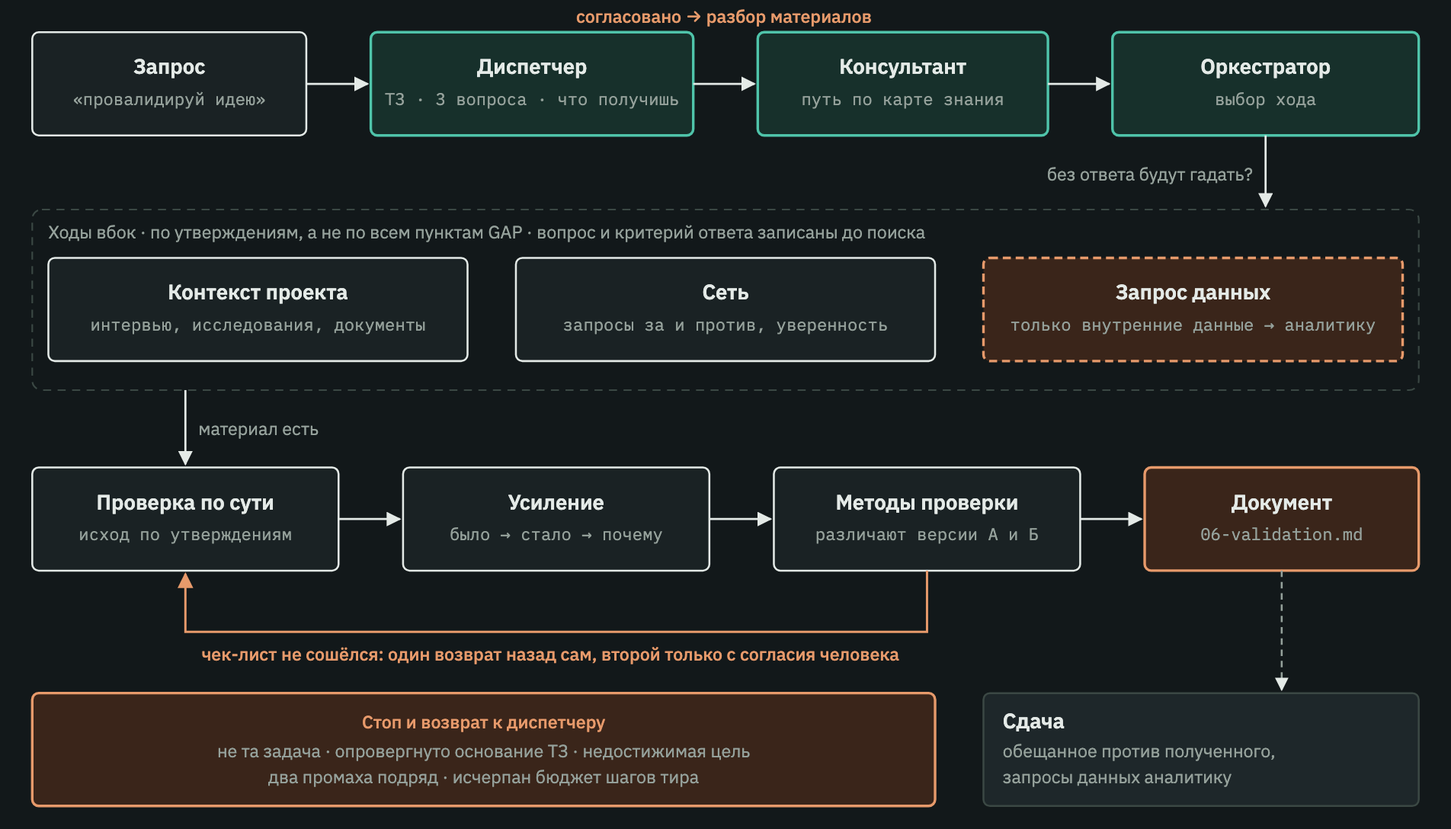
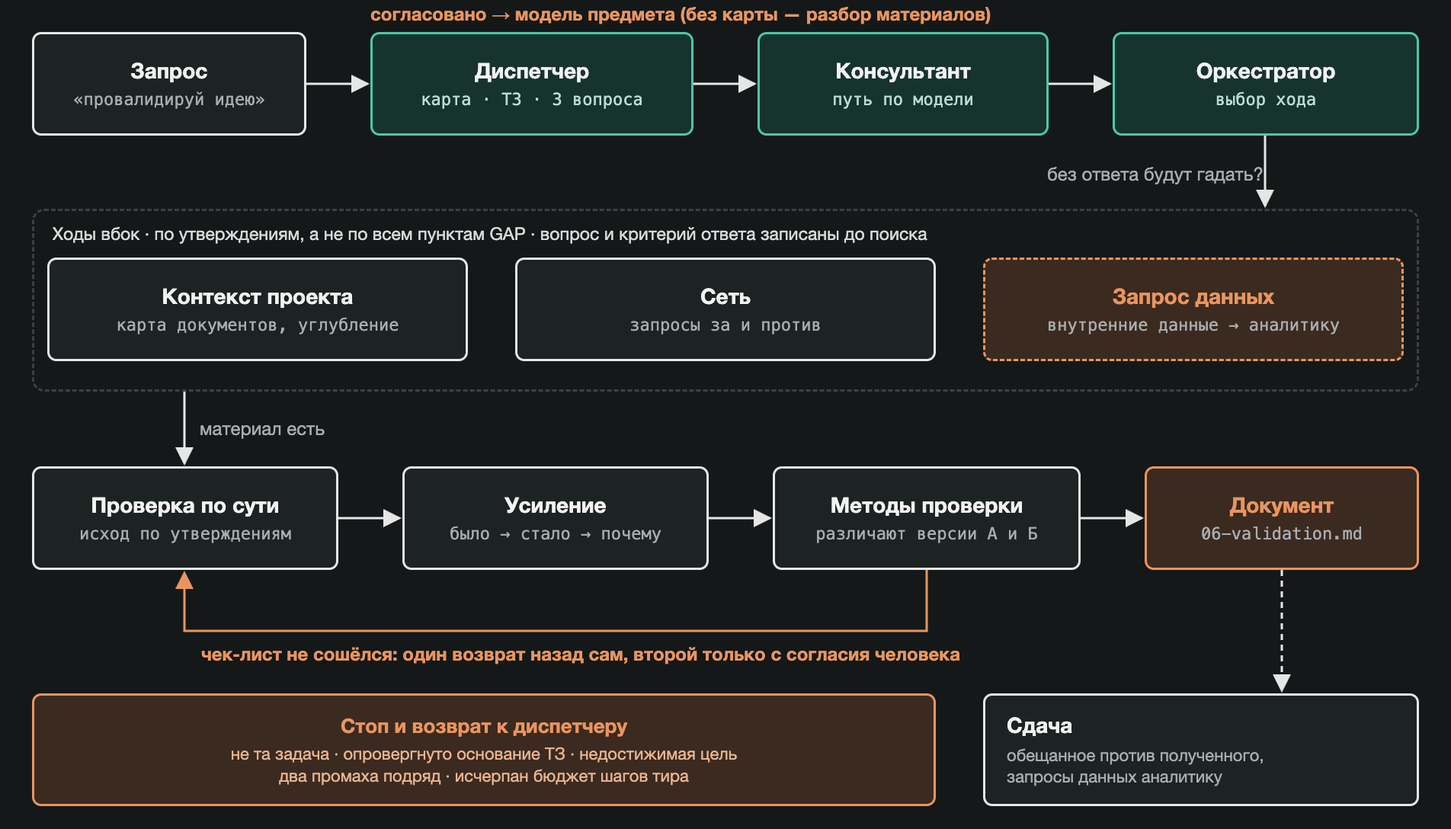
README, схемы и AGENTS.md: синхронизация с картографией и моделью
Схема 1: поля ТЗ (ГРУППЫ, РАМКИ, ЭКСПЕРИМЕНТ, ЧТО ПОЛУЧИШЬ) и файлы задачи
(map/, 00d-map, 00m-model, 00r-limits, 02e-trace). Схема 3 пересобрана с
HTML-исходником под путь через карту и модель. Схема 4: крупнее шрифт, короче
подписи. README: строки Диспетчера и Оркестратора, раздел картографии списком
из трёх шагов. docs/README.md: исходники всех четырёх схем и команды съёмки.
AGENTS.md: служебные файлы задачи и правило, что оценки считают скрипты.

diff --git a/docs/src/architecture-4-document-mapping.html b/docs/src/architecture-4-document-mapping.html
@@ -4,46 +4,54 @@
 :root{--bg:#141819;--box:#1d2223;--line:#e6e6e6;--teal:#4cc8a8;--tealbg:#17332d;--or:#e9955f;--orbg:#3b2a20;--muted:#a9adaf;}
 *{box-sizing:border-box;margin:0;padding:0}
 html,body{background:var(--bg);width:952px}
-body{font-family:Inter,"SF Pro Text",-apple-system,"Helvetica Neue",Arial,sans-serif;color:#f2f2f2;padding:10px 10px 16px 10px}
-.row{display:flex;align-items:center;height:50px;margin-bottom:3px}
-.lbl{width:118px;font-weight:700;font-size:12.5px;flex:none}
+body{font-family:Inter,"SF Pro Text",-apple-system,"Helvetica Neue",Arial,sans-serif;color:#f2f2f2;padding:14px 12px 18px 12px}
+.row{display:flex;align-items:center;height:62px;margin-bottom:6px}
+.lbl{width:122px;font-weight:700;font-size:14px;flex:none}
 .flow{display:flex;align-items:center}
-.b{height:34px;border:1.5px solid var(--line);border-radius:5px;background:var(--box);display:flex;align-items:center;justify-content:center;text-align:center;font-size:11.5px;line-height:1.15;padding:0 6px;width:112px;flex:none}
+.b{height:48px;border:1.5px solid var(--line);border-radius:6px;background:var(--box);display:flex;flex-direction:column;align-items:center;justify-content:center;text-align:center;line-height:1.25;padding:0 6px;width:136px;flex:none}
+.b .h{font-size:13px;font-weight:700}
+.b .s{font-size:11px;color:var(--muted);margin-top:2px}
 .t{border-color:var(--teal);background:var(--tealbg)}
-.o{border-color:var(--or);background:var(--orbg);color:var(--or);font-weight:600}
-.n{border-color:var(--teal);color:#bfeee0}
+.t .s{color:#b9ddd3}
+.o{border-color:var(--or);background:var(--orbg)}
+.o .h{color:var(--or)}
 .d{border-style:dashed}
-.a{width:18px;height:2px;background:var(--line);position:relative;flex:none;margin:0 1px}
+.a{width:22px;height:2px;background:var(--line);position:relative;flex:none;margin:0 2px}
 .a:after{content:"";position:absolute;right:-2px;top:-4px;border-left:7px solid var(--line);border-top:5px solid transparent;border-bottom:5px solid transparent}
-.notes{margin:12px 0 0 118px;color:var(--muted);font-size:10.6px;line-height:1.75}
+.notes{margin:10px 0 0 122px;color:var(--muted);font-size:12.5px;line-height:1.7}
 .notes b{color:#e6e6e6;font-weight:600}
-.leg{display:inline-block;width:10px;height:10px;border:1.5px solid var(--teal);border-radius:2px;vertical-align:-1px;margin-right:3px}
+.leg{display:inline-block;width:11px;height:11px;border:1.5px solid var(--teal);border-radius:2px;vertical-align:-1px;margin-right:4px}
 .leg.dd{border-style:dashed;border-color:var(--line)}
-.leg.oo{border-color:var(--or)}
-.tag{margin:4px 0 8px 0;color:var(--or);font-size:11px;font-weight:600}
 </style></head><body>
-<div class="tag">Картография документов и модель предмета (внедрено)</div>
 
 <div class="row"><div class="lbl">Диспетчер</div><div class="flow">
-<div class="b t">Скрипт: очистка,<br>числа, срезы</div><div class="a"></div><div class="b">Лёгкая модель:<br>поля по схеме</div><div class="a"></div><div class="b t">Проверка карты:<br>цитаты, полнота</div><div class="a"></div><div class="b">ТЗ: группы,<br>критерий, рамки</div><div class="a"></div><div class="b o">Согласование</div></div></div>
+<div class="b t"><div class="h">Скрипт</div><div class="s">очистка, числа, срезы</div></div><div class="a"></div>
+<div class="b"><div class="h">Лёгкая модель</div><div class="s">поля по схеме</div></div><div class="a"></div>
+<div class="b t"><div class="h">Проверка карты</div><div class="s">цитаты, полнота</div></div><div class="a"></div>
+<div class="b"><div class="h">ТЗ</div><div class="s">группы, рамки</div></div><div class="a"></div>
+<div class="b o"><div class="h">Согласование</div></div></div></div>
 
 <div class="row"><div class="lbl">Оркестратор</div><div class="flow">
-<div class="b t">Модель<br>предмета</div><div class="a"></div><div class="b">Консультант:<br>путь от пробелов</div><div class="a"></div><div class="b n">Источники<br>· линзы</div><div class="a"></div><div class="b">Генератор:<br>клетка и рамки</div><div class="a"></div><div class="b t">Проверка<br>цепочки</div></div></div>
+<div class="b t"><div class="h">Модель предмета</div><div class="s">группа × факт</div></div><div class="a"></div>
+<div class="b"><div class="h">Консультант</div><div class="s">путь от пробелов</div></div><div class="a"></div>
+<div class="b t"><div class="h">Источники</div><div class="s">и линзы</div></div><div class="a"></div>
+<div class="b"><div class="h">Генератор</div><div class="s">клетка и рамки</div></div><div class="a"></div>
+<div class="b t"><div class="h">Проверка цепочки</div><div class="s">клетка, рамка, размер</div></div></div></div>
 
 <div class="row"><div class="lbl">Финиш</div><div class="flow">
-<div class="b n">Нострадамус<br>· отсев</div><div class="a"></div><div class="b">Позиция по<br>критерию ТЗ</div><div class="a"></div><div class="b">Бэклог<br>тестов</div><div class="a"></div><div class="b o">сдача</div></div></div>
+<div class="b t"><div class="h">Нострадамус</div><div class="s">и отсев идей</div></div><div class="a"></div>
+<div class="b"><div class="h">Позиция</div><div class="s">по критерию ТЗ</div></div><div class="a"></div>
+<div class="b"><div class="h">Бэклог тестов</div><div class="s">что запускать</div></div><div class="a"></div>
+<div class="b o"><div class="h">Сдача</div></div></div></div>
 
 <div class="row"><div class="lbl">По запросу</div><div class="flow">
-<div class="b d">Углубление<br>документа</div></div></div>
+<div class="b d"><div class="h">Углубление</div><div class="s">документ целиком</div></div></div></div>
 
 <div class="notes">
-<span class="leg"></span><b>Зелёная рамка</b> — делает скрипт, а не модель: очистка, числа и срезы, проверка карты, надёжность клеток, проверка цепочки.<br>
-<b>Лёгкая модель</b> описывает и тегирует документы, выбирает из списка кандидатов, цитирует дословно; «что важно» не решает: важность считает скрипт по формуле из ТЗ.<br>
-<b>Карта документов</b> не зависит от задачи и кэшируется по хэшу файла; повторные задачи по тем же файлам её не пересчитывают.<br>
-<b>Человек</b> подтверждает рамки продукта (что в продукте есть и чего нет) и определения групп: их не выводят из документов.<br>
-<b>Модель предмета</b> — матрица «группа × признак»: в клетке значение дословно, группа источника, n, тип, свежесть; пустые клетки остаются пустыми.<br>
-<span class="leg dd"></span><b>Углубление</b> — полное чтение документа по запросу модели предмета, консультанта, генератора или проверки; лимит по тиру.<br>
-Каждый документ читается целиком не более двух раз: при картографии и в углублении; остальные шаги работают с картой и моделью.<br>
-Качество картографии измеряет аудит: слепое сравнение сильной моделью на выборке, пороги записаны до проверки.
+<span class="leg"></span><b>Зелёная рамка</b> — делает скрипт, а не модель.<br>
+<b>Лёгкая модель</b> описывает документы и цитирует по номерам строк; важность считает скрипт по формуле из ТЗ.<br>
+<b>Карта документов</b> хранится по хэшу файла и повторно не строится.<br>
+<b>Человек</b> подтверждает группы и рамки продукта: что в продукте есть и чего нет.<br>
+<span class="leg dd"></span><b>Углубление</b> — полное чтение по запросу; документ читается целиком не более двух раз.
 </div>
 </body></html>

diff --git a/docs/src/architecture-1-roles.html b/docs/src/architecture-1-roles.html
@@ -36,7 +36,7 @@ svg{position:absolute;left:0;top:0}
 <!-- top -->
 <div class="b" style="left:20px;top:26px;width:128px;height:58px"><div class="h">Человек</div><div class="s">заказчик</div></div>
 <div class="lab" style="left:154px;top:36px">запрос</div>
-<div class="b t" style="left:200px;top:14px;width:350px;height:96px"><div class="h">Диспетчер</div><div class="s">1) картография документов: скрипт → лёгкая модель → проверка</div><div class="s">2) ТЗ: GAP · РЕШЕНИЕ · ГРУППЫ · РАМКИ · КРИТЕРИЙ</div><div class="s">3 вопроса + 4-й · следующий раунд: идеи + данные</div></div>
+<div class="b t" style="left:200px;top:14px;width:350px;height:96px"><div class="h">Диспетчер</div><div class="s">1) картография документов: скрипт → лёгкая модель → проверка</div><div class="s">2) ТЗ: GAP · РЕШЕНИЕ · ГРУППЫ · РАМКИ · ЭКСПЕРИМЕНТ</div><div class="s">ЧТО ПОЛУЧИШЬ · 3 вопроса + 4-й · следующий раунд</div></div>
 <div class="b o" style="left:200px;top:128px;width:350px;height:42px"><div class="h" style="font-size:11.5px">Единственная пауза</div><div class="s">ответы и «да» одним сообщением</div></div>
 <div class="olab" style="left:22px;top:160px">ответы / правки / «да»</div>
 <div class="lab" style="left:384px;top:174px">СОГЛАСОВАНО</div>
@@ -47,10 +47,10 @@ svg{position:absolute;left:0;top:0}
 <div class="lab" style="left:553px;top:44px">читает</div>
 <div class="b r" style="left:592px;top:14px;width:340px;height:108px"><div class="h">methodology/</div><div class="s">tools-index — инструмент под пункт пути<br>модули: M0–M8, M11–M13 и Э Д К О П Ж С<br>эксперименты · данные · источники · оценки<br>оффер · жизненный цикл · сегменты<br>web-protocol — как ходить в веб</div></div>
 <div class="b r" style="left:592px;top:130px;width:340px;height:68px"><div class="h">context/</div><div class="s">кладёт человек до запуска<br>from-tasks/ — src-* и результаты живой проверки<br>карта документов — кэш по хэшу файла</div></div>
-<div class="lab" style="left:555px;top:222px">пишет</div>
-<div class="b r" style="left:592px;top:206px;width:340px;height:88px"><div class="h">tasks/‹задача›/</div><div class="s">00-tz · log · 00k · 01-review · src-*<br>02-hypotheses · 02c · 02f-forecast · 02g-ideas<br>02e-position · 03-backlog / 03-plan · 03b · 03c<br>06-* · 07a–07d · 08-handoff · checks/ · results/</div></div>
+<div class="lab" style="left:555px;top:224px">пишет</div>
+<div class="b r" style="left:592px;top:204px;width:340px;height:100px"><div class="h">tasks/‹задача›/</div><div class="s">00-tz · log · map/ · 00d-map · 00m-model · 00r-limits<br>00k · 01-review · src-* · 02-hypotheses · 02c<br>02f-forecast · 02g-ideas · 02e-position · 02e-trace<br>03-backlog / 03-plan · 03b · 03c · 06-* · 07a–07d<br>08-handoff · checks/ · results/</div></div>
 
-<div class="b r" style="left:592px;top:304px;width:340px;height:176px"><div class="h">scripts/ и хуки</div><div class="s">реестры чисел и источников · sensitivity<br>сверка цитат и чисел — скрипт<br>check_step после каждого шага<br>check_log_sources — линзы и шаги-источники<br>check_forecast · check_ideas — идеи и отсев<br>check_rehearsal — следствия пробного прогона<br>Stop-хук не даёт сдать с ошибками<br>check_publish — перед отправкой<br>map_docs · check_map · build_model · check_chain · check_rank</div></div>
+<div class="b r" style="left:592px;top:314px;width:340px;height:166px"><div class="h">scripts/ и хуки</div><div class="s">реестры чисел и источников · sensitivity<br>сверка цитат и чисел — скрипт<br>check_step после каждого шага<br>check_log_sources — линзы и шаги-источники<br>check_forecast · check_ideas — идеи и отсев<br>check_rehearsal — следствия пробного прогона<br>Stop-хук не даёт сдать с ошибками<br>check_publish — перед отправкой<br>map_docs · check_map · build_model · check_chain · check_rank</div></div>
 <div class="b r" style="left:592px;top:490px;width:340px;height:80px"><div class="h">Полигон · scripts/polygon.py</div><div class="s">выдуманные отчёты об экспериментах с ключом ответов<br>проверка навыка разбора экспериментов<br>без нейросети, ничего не хранит</div></div>
 <div class="b r" style="left:592px;top:580px;width:340px;height:52px"><div class="h">system-notes.md</div><div class="s">замечания к системе из сдач</div></div>
 <div class="b r" style="left:592px;top:642px;width:340px;height:66px"><div class="h">Веб</div><div class="s">за и против, запрос на опровержение, метки уверенности<br>линзы — внешнее сырьё для гипотез и идей</div></div>
@@ -132,7 +132,7 @@ svg{position:absolute;left:0;top:0}
 <g stroke="#e6e6e6" stroke-width="1.3" fill="none" stroke-dasharray="4 3" marker-end="url(#w)">
 <line x1="550" y1="62" x2="590" y2="62"/>
 <path d="M550,140 L566,140 L566,160 L590,160"/>
-<line x1="550" y1="240" x2="590" y2="240"/>
+<line x1="550" y1="254" x2="590" y2="254"/>
 <path d="M30,805 L12,805 L12,64 L18,64" stroke="#e9955f" marker-end="url(#or)"/>
 </g>
 <text x="16" y="440" fill="#e9955f" font-size="9.5" font-family="Inter,-apple-system,Helvetica Neue,Arial" transform="rotate(-90 9 440)">следующий раунд</text>

diff --git a/docs/src/architecture-3-example.html b/docs/src/architecture-3-example.html
@@ -1,0 +1,52 @@
+<!doctype html>
+<html lang="ru"><head><meta charset="utf-8">
+<style>
+:root{--bg:#141819;--box:#1d2223;--line:#e6e6e6;--teal:#4cc8a8;--tealbg:#17332d;--or:#e9955f;--orbg:#3b2a20;--muted:#a9adaf;--grp:#3b4043}
+*{box-sizing:border-box;margin:0;padding:0}
+html,body{background:var(--bg);width:952px;height:544px}
+body{font-family:Inter,"SF Pro Text",-apple-system,"Helvetica Neue",Arial,sans-serif;color:#f2f2f2;position:relative}
+.b{position:absolute;border:1.5px solid var(--line);border-radius:6px;background:var(--box);display:flex;flex-direction:column;align-items:center;justify-content:center;text-align:center;line-height:1.3;padding:2px 8px}
+.b .h{font-size:14px;font-weight:700}
+.b .s{font-size:11px;color:var(--muted);margin-top:3px;font-family:Menlo,monospace}
+.t{border-color:var(--teal);background:var(--tealbg)}
+.t .s{color:#b9ddd3}
+.o{border-color:var(--or);background:var(--orbg)}
+.o .h{color:var(--or)}
+.d{border-style:dashed}
+.g{position:absolute;border:1.5px dashed var(--grp);border-radius:8px}
+.g .gt{position:absolute;left:12px;top:8px;font-size:11.5px;color:#d8d8d8}
+.lab{position:absolute;font-size:12px;color:var(--muted)}
+.olab{position:absolute;font-size:12px;color:var(--or);font-weight:600}
+svg{position:absolute;left:0;top:0}
+</style></head><body>
+<div class="olab" style="left:243px;top:2px">согласовано → модель предмета (без карты — разбор материалов)</div>
+<div class="b" style="left:21px;top:21px;width:180px;height:68px"><div class="h">Запрос</div><div class="s">«провалидируй идею»</div></div>
+<div class="b t" style="left:243px;top:21px;width:212px;height:68px"><div class="h">Диспетчер</div><div class="s">карта · ТЗ · 3 вопроса</div></div>
+<div class="b t" style="left:497px;top:21px;width:191px;height:68px"><div class="h">Консультант</div><div class="s">путь по модели</div></div>
+<div class="b t" style="left:730px;top:21px;width:201px;height:68px"><div class="h">Оркестратор</div><div class="s">выбор хода</div></div>
+<div class="lab" style="left:687px;top:107px">без ответа будут гадать?</div>
+<div class="g" style="left:21px;top:137px;width:910px;height:120px"><div class="gt">Ходы вбок · по утверждениям, а не по всем пунктам GAP · вопрос и критерий ответа записаны до поиска</div></div>
+<div class="b" style="left:31px;top:169px;width:276px;height:68px"><div class="h">Контекст проекта</div><div class="s">карта документов, углубление</div></div>
+<div class="b" style="left:338px;top:169px;width:276px;height:68px"><div class="h">Сеть</div><div class="s">запросы за и против</div></div>
+<div class="b o d" style="left:645px;top:169px;width:276px;height:68px"><div class="h">Запрос данных</div><div class="s">внутренние данные → аналитику</div></div>
+<div class="lab" style="left:131px;top:274px">материал есть</div>
+<div class="b" style="left:21px;top:306px;width:201px;height:68px"><div class="h">Проверка по сути</div><div class="s">исход по утверждениям</div></div>
+<div class="b" style="left:264px;top:306px;width:201px;height:68px"><div class="h">Усиление</div><div class="s">было → стало → почему</div></div>
+<div class="b" style="left:507px;top:306px;width:202px;height:68px"><div class="h">Методы проверки</div><div class="s">различают версии А и Б</div></div>
+<div class="b o" style="left:751px;top:306px;width:180px;height:68px"><div class="h">Документ</div><div class="s">06-validation.md</div></div>
+<div class="olab" style="left:132px;top:422px">чек-лист не сошёлся: один возврат назад сам, второй только с согласия человека</div>
+<div class="b o" style="left:21px;top:455px;width:593px;height:74px"><div class="h" style="font-size:13px">Стоп и возврат к диспетчеру</div><div class="s" style="font-family:inherit;color:#e7b48f">не та задача · опровергнуто основание ТЗ · недостижимая цель<br>два промаха подряд · исчерпан бюджет шагов тира</div></div>
+<div class="b" style="left:645px;top:455px;width:286px;height:74px;align-items:flex-start;padding-left:14px;text-align:left"><div class="h">Сдача</div><div class="s" style="font-family:inherit">обещанное против полученного,<br>запросы данных аналитику</div></div>
+<svg width="952" height="544" viewBox="0 0 952 544">
+<defs><marker id="w" markerWidth="8" markerHeight="8" refX="7" refY="4" orient="auto"><path d="M0,0 L8,4 L0,8 z" fill="#e6e6e6"/></marker>
+<marker id="or" markerWidth="8" markerHeight="8" refX="7" refY="4" orient="auto"><path d="M0,0 L8,4 L0,8 z" fill="#e9955f"/></marker></defs>
+<g stroke="#e6e6e6" stroke-width="1.5" fill="none" marker-end="url(#w)">
+<line x1="201" y1="55" x2="241" y2="55"/><line x1="455" y1="55" x2="495" y2="55"/><line x1="688" y1="55" x2="728" y2="55"/>
+<line x1="830" y1="89" x2="830" y2="135"/>
+<line x1="121" y1="257" x2="121" y2="304"/>
+<line x1="222" y1="340" x2="262" y2="340"/><line x1="465" y1="340" x2="505" y2="340"/><line x1="709" y1="340" x2="749" y2="340"/>
+<line x1="841" y1="374" x2="841" y2="453" stroke-dasharray="4 3"/>
+</g>
+<path d="M608,374 L608,414 L121,414 L121,376" stroke="#e9955f" stroke-width="1.5" fill="none" marker-end="url(#or)"/>
+</svg>
+</body></html>

diff --git a/README.md b/README.md
@@ -27,7 +27,13 @@
 
 ![Картография документов в диспетчере и модель предмета](docs/architecture-4-document-mapping.png)
 
-Контекст читается в два слоя. Диспетчер картографирует документы: скрипт `map_docs.py` нумерует строки и размечает числа, срезы, продукт и риск; лёгкая модель (`document-mapper`) описывает каждый документ по схеме, цитируя по номерам строк; `check_map.py` проверяет цитаты и полноту, важность документов не оценивается. Потом оркестратор строит модель предмета: `rank_impact.py` выбирает документы для углубления (`document-deepener`), `subject-model` выписывает клетки «группа × признак» и рамки продукта, а надёжность клеток считает `build_model.py`. Консультант строит путь от пустых и слабых клеток, гипотеза обязана назвать клетку, рамку продукта и размер группы (`check_chain.py`), порядок в позиции выводится из надёжности клеток (`check_rank.py`). Описание, пороги аудита и риски — в [docs/proposal-document-dossiers.md](docs/proposal-document-dossiers.md). Что проверено: скрипты прогнаны на выдуманных данных (`selftest.py`), разметка документов — на трёх реальных документах; полный маршрут с агентами и аудит качества на втором наборе документов ещё не прогонялись.
+Контекст читается в два слоя, а важность документов и надёжность выводов считают скрипты, а не модель.
+
+1. **Карта документов** (диспетчер). Скрипт `map_docs.py` нумерует строки и размечает числа, срезы, продукт и риск. Лёгкая модель (`document-mapper`) описывает каждый документ: кто говорит, сколько людей, слова это или поведение. Цитирует по номерам строк, `check_map.py` проверяет дословность и полноту.
+2. **Модель предмета** (оркестратор). `rank_impact.py` выбирает документы для углубления (`document-deepener`), `subject-model` выписывает клетки «группа × признак» и рамки продукта, `build_model.py` считает надёжность клеток. Пустые клетки остаются пустыми.
+3. **Дальше по маршруту.** Консультант строит путь от пустых и слабых клеток. Гипотеза называет клетку, рамку продукта и размер группы (`check_chain.py`). Порядок в позиции выводится из надёжности клеток (`check_rank.py`).
+
+Что проверено: скрипты прогнаны на выдуманных данных (`selftest.py`), разметка документов — на трёх реальных документах. Полный маршрут с агентами и аудит качества на втором наборе документов ещё не прогонялись. Описание, пороги аудита и риски — в [docs/proposal-document-dossiers.md](docs/proposal-document-dossiers.md).
 
 
 ## Что внутри
@@ -39,7 +45,7 @@
 - `context/` — материалы о продукте и клиентах, которые кладёшь ты.
 - `tasks/` — задачи; папки создаёт система. В git из `context/` и `tasks/` попадают только `README.md`: сами материалы и задачи остаются локально.
 - `scripts/` — проверки, которые не зависят от честности агента, и хуки Claude Code (`scripts/hooks/`, `.claude/settings.json`).
-- `docs/` — схемы системы (четыре PNG), HTML-исходники первых двух и четвёртой в `docs/src/`, предложение по картографии документов `docs/proposal-document-dossiers.md`.
+- `docs/` — схемы системы (четыре PNG) с HTML-исходниками в `docs/src/`, предложение по картографии документов `docs/proposal-document-dossiers.md`.
 - `system-notes.md` — журнал замечаний к системе.
 
 ## Методология
@@ -64,9 +70,9 @@
 
 | Роль | Задача |
 | --- | --- |
-| Диспетчер | Превращает запрос в ТЗ: что ты хочешь получить, чего не хватает, какой результат будет. Задаёт три вопроса о том, что важнее всего уточнить. Если дело идёт к живой проверке, добавляет четвёртый, необязательный: сделать ли пробный прогон — задать будущие вопросы выдуманным респондентам и посмотреть, какие из них наводящие или непонятные (дольше и дороже, ничего не доказывает про реальных клиентов). Исполнителей диспетчер не выбирает |
+| Диспетчер | Сначала картографирует документы в `context/`: скрипт размечает числа и срезы, лёгкая модель описывает каждый документ, скрипт проверяет цитаты и полноту. Потом превращает запрос в ТЗ: что ты хочешь получить, о каких группах клиентов речь, что в продукте есть и чего нет, какой результат будет. Задаёт три вопроса о том, что важнее всего уточнить. Если дело идёт к живой проверке, добавляет четвёртый, необязательный: сделать ли пробный прогон — задать будущие вопросы выдуманным респондентам и посмотреть, какие из них наводящие или непонятные (дольше и дороже, ничего не доказывает про реальных клиентов). Исполнителей диспетчер не выбирает |
 | Человек | Отвечает на вопросы диспетчера (три, иногда четыре) и согласует ТЗ одним сообщением. Это единственная пауза во всей системе |
-| Оркестратор | Ведёт задачу по шагам: решает, какого исполнителя позвать на каждый пункт пути, в каком порядке и когда остановиться. В задачах на гипотезы до генератора проходит вопрос через четыре линзы — когда, вместо нас, кто, что болит — и зовёт источники за внешним сырьём. После проверки по сути зовёт Нострадамуса и отсев его идей. Для каждого шага записывает, какой инструмент методологии взять из указателя. После шага запускает проверки и пишет журнал (лог) |
+| Оркестратор | Ведёт задачу по шагам: решает, какого исполнителя позвать на каждый пункт пути, в каком порядке и когда остановиться. Строит модель предмета (таблицу «группа × факт») и выбирает документы для углубления. В задачах на гипотезы до генератора проходит вопрос через четыре линзы — когда, вместо нас, кто, что болит — и зовёт источники за внешним сырьём. После проверки по сути зовёт Нострадамуса и отсев его идей. Для каждого шага записывает, какой инструмент методологии взять из указателя. После шага запускает проверки и пишет журнал (лог) |
 | Исполнители | Агенты с узкой работой: картограф документов (описывает и размечает файлы контекста, зовёт диспетчер); углубление документа (читает важный документ целиком); модель предмета (таблица «группа × факт» и рамки продукта); разбор материалов (запасной шаг, когда карты нет); консультант (оценивает постановку и строит путь от «как сейчас» к «как нужно»: что должно стать известно); генератор гипотез; проверка по сути; планировщик; набор для проверки (скрипты и тексты для живой проверки); восемь источников данных (разбор интервью, сводка интервью, боли рынка, портрет аудитории, альтернативы, оценка рынка, путь клиента, разбор экспериментов); проверка смысла; Нострадамус (новые идеи вне колеи маршрута, лучшая версия там, где данных не хватило, и следующий шаг); сборщик итогового документа; писатель брифа; выдуманные респонденты (синтетика); сверка результатов |
 
 К источникам данных оркестратор обращается по выбору, когда без ответа гипотезы или вердикт будут догадкой. Исключение — линзы: в задачах на гипотезы, план и ТЗ на доработку он до генератора решает по каждой из четырёх, звать ли источник за сырьём (путь клиента, альтернативы, портрет аудитории, боли рынка), и при открытой сети хотя бы один зовёт обязательно — иначе гипотезы вырастают из одного корня. Если ответ лежит внутри компании (воронка, выгрузка, итоги прошлой кампании), система не ищет его в сети: оркестратор пишет запрос аналитику и кладёт его в итоговую сводку отдельным блоком.

diff --git a/AGENTS.md b/AGENTS.md
@@ -54,7 +54,7 @@
 - `system-notes.md` — общий журнал замечаний к системе: оркестратор дописывает туда замечания из каждой сдачи.
 - `tasks/<задача>/sources.csv` и `tasks/<задача>/sources/raw/` — реестр источников задачи и их сырой текст. Пишется только `scripts/add_source.py`, порядок — в `web-protocol.md`, п. 2б.
 - `scripts/` — проверки, которые не зависят от честности исполнителя: `add_source.py` (реестр), `check_quotes.py` (цитаты против сырого текста), `check_artifact.py` (артефакт шага, периметр записи, ответы на замечания проверки смысла), `list_unused.py` (найдено на шаге, но не процитировано), `add_number.py` и `check_numbers.py` (реестр чисел: производные пересчитываются, фрагмент проверяется в источнике), `trust_map.py` (счёт опор для карты доверия), `check_private.py` (персональные данные в артефактах и в логе), `check_step.py` (все проверки после шага одной командой и одной строкой для лога, со счётчиками цитат и корней), `check_log_sources.py` (в задачах на гипотезы перед генератором есть блок ЛИНЗЫ с решением по каждой линзе; у каждого шага-источника в логе есть пункт GAP дословно, вопрос не уже пункта, зачем и что уже известно; у запроса данных — дешёвая замена), `check_path.py` (каждый пункт GAP привязан к пути консультанта, варианты решения покрыты, у каждого пункта пути есть исход; с `--tz` — у каждого пункта GAP пометка, где ответ, и ВЕБ с ними согласован), `check_forecast.py` (у Нострадамуса не меньше пяти новых идей, у каждой «не повторяет», «уточнит», первый шаг и «на чём» — поле источника с id или новый сбор; рамка сверена; по каждому ключевому вопросу лучшая версия, альтернатива, что различит и следующий шаг — не «нет данных»), `check_ideas.py` (отсев новых идей Нострадамуса: вердикт по каждой, поле «Возражения», выполнимость первого шага, у живых — данные для следующего раунда, снятые — с причиной), `check_rehearsal.py` (пробный прогон на синтетике меняет эксперимент и решение: статус у каждого теста, ответ на каждое следствие в бэклоге или плане), `check_knowledge.py` (разбор материалов прочитал каждый файл контекста и по каждому пункту GAP написал, чего нет), `map_docs.py` (картография документов, слой скрипта: нумерует строки текста, размечает теги «число», «срез», «продукт», «риск», кэширует по хэшу) и `build_model.py` (модель предмета: матрица «группа × признак», надёжность клеток считает скрипт по правилам, пустые и слабые клетки), `rank_impact.py` (важность документов по формуле, кандидаты на углубление с лимитом по тиру), `check_chain.py` (у каждой гипотезы клетка модели, рамка продукта со статусом «есть», размер группы), `check_rank.py` (порядок направлений в позиции выводится из надёжности клеток), `check_map.py` (досье документов: блок на каждый файл, поля, цитаты адресны и дословны по номеру строки, строки с числами учтены или отброшены с причиной, оценки важности в досье нет), `check_readable.py` (документы для людей — брифы, позиция, бэклог тестов, сдача: без слов системы и внутренних номеров, под именами из реестра), `check_fresh.py` (старый веб-источник процитирован с годом), `check_long_list.py` (отсев длинного списка в режиме ширины по правилам, записанным заранее), `sensitivity.py` (чувствительность формулы из реестра чисел), `polygon.py` (полигон: выдуманные отчёты об экспериментах с ключом ответов и сверка навыка разбора экспериментов, без нейросети), `check_publish.py` (перед отправкой на GitHub: имена, партнёры и коды из задач не уходят в репозиторий; хук `scripts/git-hooks/pre-push`, подключается командой `git config core.hooksPath scripts/git-hooks`), `hooks/guard_writes.py` (запрет правок системы и реестра по ходу задачи), `hooks/stop_check.py` (перед окончанием ответа сам прогоняет проверку цитат по задачам последних 12 часов и один раз не даёт закончить, если есть ошибки) — оба подключены в `.claude/settings.json`, `selftest.py` (самопроверка всех скриптов — запускать после любой правки в `scripts/`). Чтобы править саму систему, создай в корне пустой файл `.polygon-dev` и удали его после.
-- `tasks/<задача>/` — папка задачи. Её создаёт диспетчер, файлы в неё сохраняет оркестратор. Результаты живой проверки человек кладёт в `tasks/<задача>/results/`.
+- `tasks/<задача>/` — папка задачи. Её создаёт диспетчер, файлы в неё сохраняет оркестратор. Результаты живой проверки человек кладёт в `tasks/<задача>/results/`. Служебные файлы картографии и модели: `map/` (пронумерованный текст и теги, пишет `map_docs.py`), `00d-map.md` (досье документов), `00m-schema.txt`, `00m-cells.csv`, `00m-model.md` и `00m-model.json` (модель предмета; `.md` и `.json` пишет `build_model.py`), `00r-limits.md` (рамки продукта), `00i-impact.md` (важность документов, пишет `rank_impact.py`), `02e-trace.md` (след позиции, не для человека).
 
 ## Правила
 
@@ -63,6 +63,7 @@
 - Текст гипотез, вердикты кабинетной проверки, планы и синтетика в `context/` не попадают никогда — иначе следующий прогон засчитает выводы системы как опору. Результаты живой проверки попадают: это случившееся.
 - Скиллы, реестр и указатель по ходу задачи не правятся. Замечания к системе — отдельным блоком в конце сдачи.
 - Опорный фрагмент в любом артефакте — дословно в ёлочках с id источника из реестра: «…» [F-007]. Это касается и веба, и интервью, и файлов контекста. Пересказ без id опорой не считается.
+- Карта документов описывает, но не оценивает: важность документов считает `rank_impact.py` по формуле, надёжность клеток модели — `build_model.py` по правилам. Исполнители эти оценки не назначают и не пишут вручную.
 - Артефакты — без прозы: не начинать с того, что прочитано, не пересказывать входные файлы, не описывать ход рассуждений. Только то, что требует формат выхода скилла.
 - Скилл в режиме оркестратора пишет только свой артефакт — в путь, который ему передали. `log.md`, чужие файлы и имена файлов не трогает. Лог ведёт только оркестратор.
 

diff --git a/docs/README.md b/docs/README.md
@@ -2,7 +2,7 @@
 
 Четыре PNG в этой папке — схемы системы: роли, хранилища, маршрут и контур эксперимента; маршруты по семи типам выхода; пример прогона (валидация идеи); картография документов и модель предмета. Тёмная тема, двойной масштаб, 1904 px в ширину.
 
-Исходники первых двух схем и четвёртой — HTML в `src/`. После изменений в системе правь HTML и пересними PNG в Chrome без окна (ширина 952 px, масштаб 2; высоту подбери под схему):
+Исходники всех четырёх схем — HTML в `src/`. После изменений в системе правь HTML и пересними PNG в Chrome без окна (ширина 952 px, масштаб 2; высоту подбери под схему):
 
 ```
 "/Applications/Google Chrome.app/Contents/MacOS/Google Chrome" --headless=new --hide-scrollbars \
@@ -10,6 +10,6 @@
   --screenshot=docs/architecture-1-roles.png "file://$PWD/docs/src/architecture-1-roles.html"
 ```
 
-Для схемы маршрутов — `--window-size=952,592` и `architecture-2-routes`. Для четвёртой схемы — `--window-size=952,450` и `architecture-4-document-mapping`. У третьей схемы (пример валидации) исходника нет: маршрут валидации не менялся.
+Высота окна и имя файла для остальных схем: маршруты — `952,592` и `architecture-2-routes`; пример прогона (валидация идеи) — `952,544` и `architecture-3-example`; картография документов — `952,424` и `architecture-4-document-mapping`.
 
 Предложение по картографии документов — `proposal-document-dossiers.md` в этой папке. Актуальное описание системы — `AGENTS.md` в корне; контракты скиллов — `.claude/skills/orchestrator/registry.md`.
